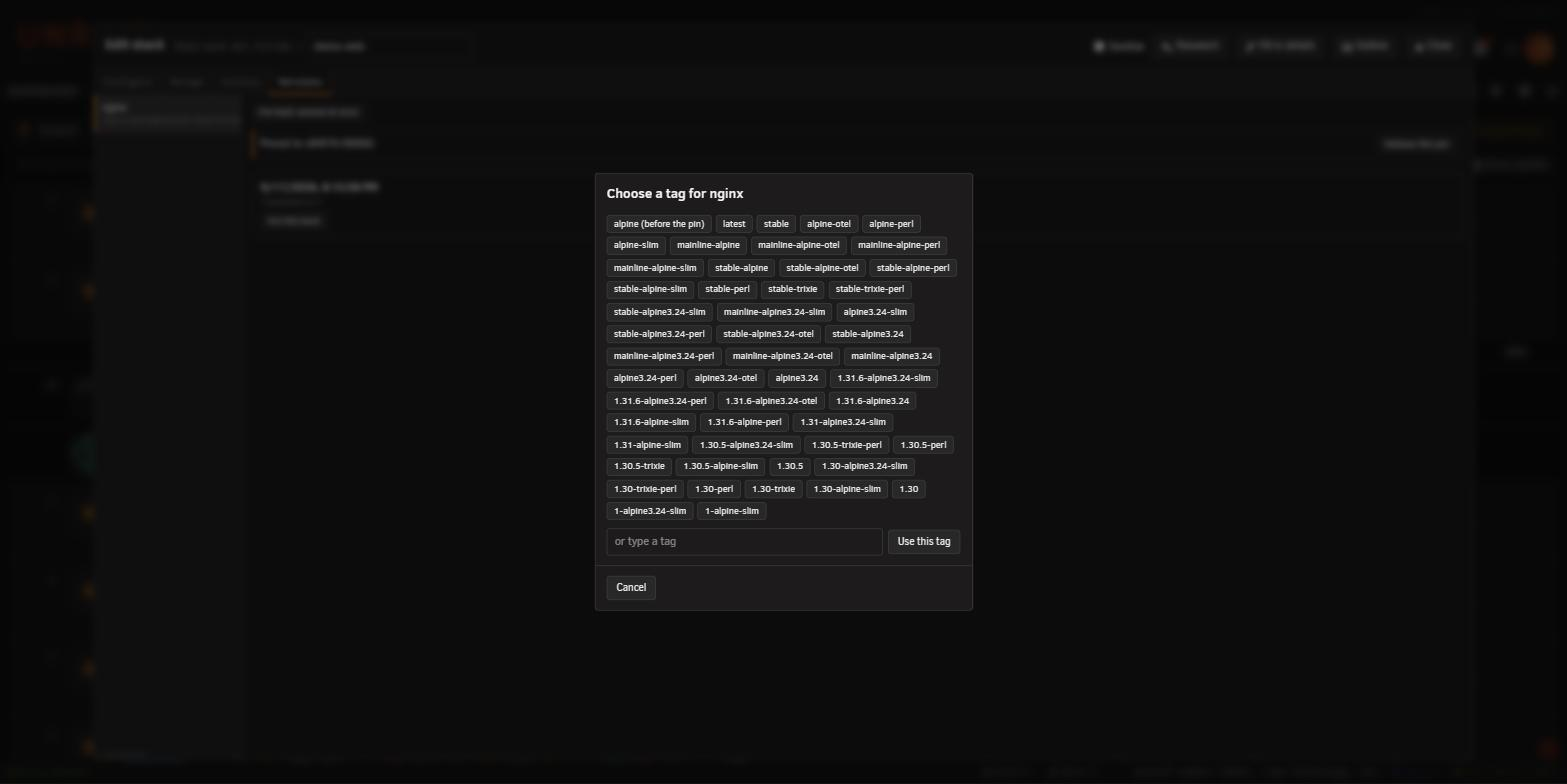
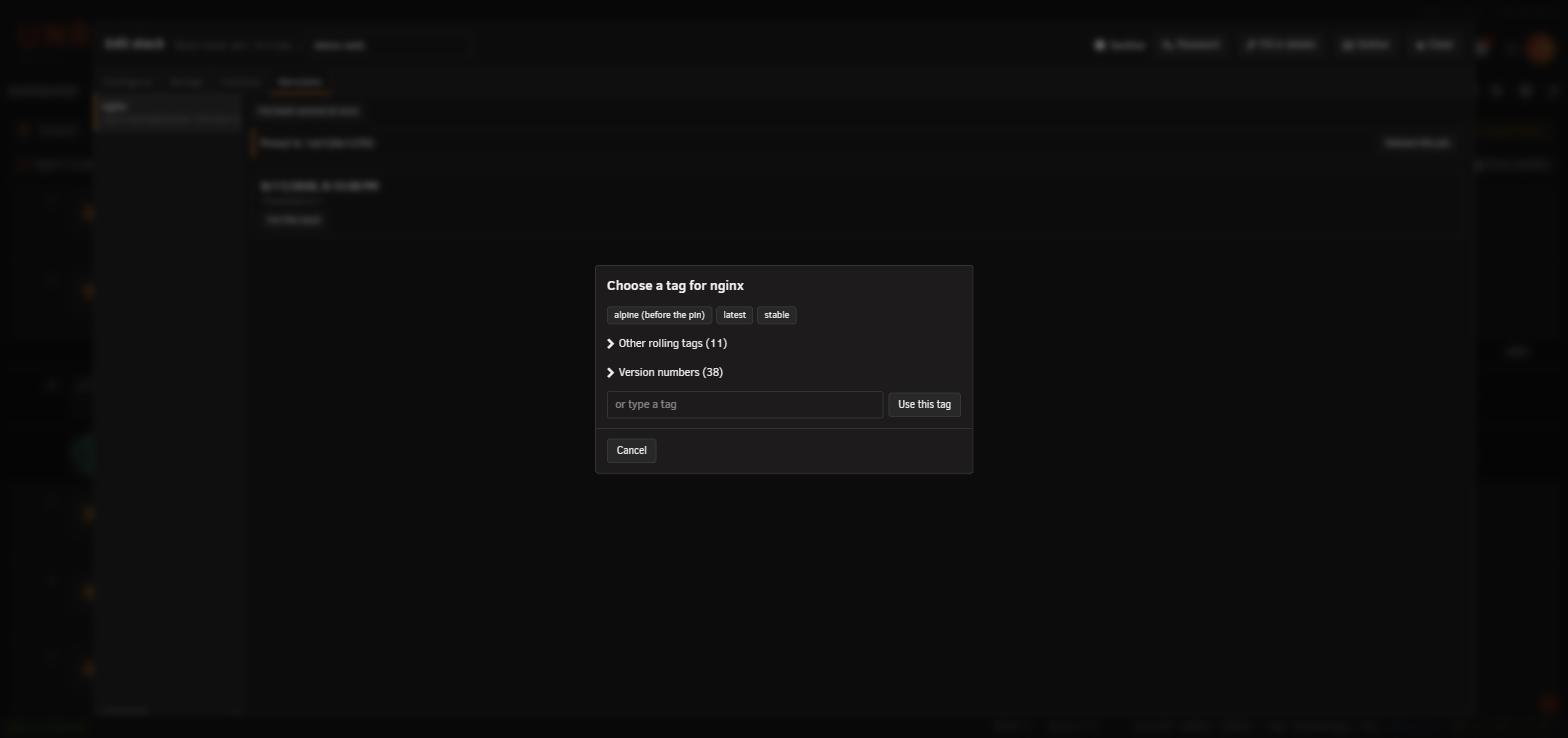
Pinned: the release picker groups tags, and a phone's stack menu survives a scroll
The tag list that opens on "Release this pin" now keeps the tag the service
was pinned from and the usual rolling names on top, and folds the other
rolling tags and the version numbers away behind a count. On a phone the
stack menu no longer closes when the page is scrolled to reach its lower
items. Guide page and picture updated to match. Follow-up to PLAN_188.

Claude-Session: https://claude.ai/code/session_018i9Wd14NfQngv9Gg3UcQBG

diff --git a/src/staxx/usr/local/emhttp/plugins/staxx/javascript/stacks.js b/src/staxx/usr/local/emhttp/plugins/staxx/javascript/stacks.js
@@ -24076,6 +24076,36 @@
   var confirmBusy    = false;
   var confirmResolve = null;
 
+  // PLAN_188 part D follow-up, 2026-09-26 — a question token. Bumped every
+  // time askConfirm()/askText()/askTagPick()/showInfo() takes the shared
+  // dialog over for a NEW question (claimConfirm(), just below). The bug
+  // this guards against: closeConfirm() calls the dialog's own close(),
+  // which does not fire its 'close' event inline — the event is a QUEUED
+  // task, so a slow enough gap between that call and the task actually
+  // running can let a LATER question open in between. When that stale
+  // event finally arrives, the generic listener used to call
+  // settleConfirm(false) unconditionally, resolving whatever question now
+  // owns confirmResolve — the LATER one — with a Cancel nobody actually
+  // gave it (measured: pinning a service, then releasing its pin from the
+  // Versions tab a few seconds later, closed the release picker within
+  // about a second with the previous question's own Go label still on the
+  // button). confirmClosingEpoch records which epoch a closeConfirm() call
+  // was made under; the listener drops the event as a stale echo when a
+  // newer question has since claimed the dialog, rather than settling it.
+  var confirmEpoch        = 0;
+  var confirmClosingEpoch = -1;
+
+  // Called by askConfirm()/askText()/askTagPick()/showInfo() at the top of
+  // each call, before anything else touches the dialog — every one of
+  // those bumps the epoch even when it is only restyling an already-open
+  // dialog for a follow-up question (the row menu's own release: tag
+  // picker, then a confirm repeating the chosen tag), since that follow-up
+  // is exactly the kind of newer question a stale close must not reach
+  // past.
+  function claimConfirm() {
+    return ++confirmEpoch;
+  }
+
   function confirmSetBusy(busy) {
     confirmBusy = busy;
     confirmCancel.disabled = busy;
@@ -24084,6 +24114,7 @@
   }
 
   function closeConfirm() {
+    confirmClosingEpoch = confirmEpoch;
     if (confirmModal.open) confirmModal.close();
   }
 
@@ -24114,6 +24145,7 @@
   // "unsaved changes" question (PLAN_44 C2) is the only caller that passes
   // it, so every existing two-answer question is untouched by this.
   function askConfirm(opts) {
+    claimConfirm();
     confirmSetBusy(false);
     confirmMsg.textContent = '';
     confirmTitle.textContent = opts.title;
@@ -24155,6 +24187,7 @@
   function showInfo(title, bodyHtml, opts) {
     opts = opts || {};
     if (!confirmModal) { noDialogFallback(title); return Promise.resolve(); }
+    claimConfirm();
     confirmSetBusy(false);
     confirmMsg.textContent = '';
     confirmTitle.textContent = title;
@@ -24177,6 +24210,7 @@
   // awaiting this instead.
   function askText(title, label, value) {
     if (!confirmModal) return Promise.resolve(window.prompt(label, value || ''));
+    claimConfirm();
     confirmSetBusy(false);
     confirmMsg.textContent = '';
     confirmTitle.textContent = title;
@@ -24235,13 +24269,19 @@
 
   // `beforePinTag` (PLAN_188 part D follow-up) is the bare tag the service
   // was pinned from — tagFromPinnedRef() reading its own "was <ref>" note —
-  // or '' when there is none to offer. Order: that tag first of all,
-  // marked; then the plan's own moving-tag list, in its own order, for
-  // whichever of them the image actually has; then every OTHER tag with no
-  // digit in it at all (nginx's own "alpine", "mainline", "perl" and so
-  // on — a real image's rolling tags are rarely limited to the plan's
-  // named nine), alphabetically; then every tag that does carry a version
-  // number, newest first.
+  // or '' when there is none to offer.
+  //
+  // PLAN_188 part F (2026-09-26, Adrian from the phone: the flat list "is a
+  // big list of noise"). A top row always shows that before-pin tag, then
+  // whichever of the plan's named nine the image actually has, in their own
+  // order. Everything else sits behind two folded headings so the dialog
+  // opens short: every OTHER tag with no digit in it at all (nginx's own
+  // "alpine", "mainline", "perl" and so on — a real image's rolling tags are
+  // rarely limited to the plan's named nine), alphabetically; then every tag
+  // that does carry a version number, newest first, as before. A group with
+  // nothing in it is not rendered, and both start folded — unless the top
+  // row itself is empty, in which case the first group that has anything
+  // opens already, so the dialog is never one tap away from looking blank.
   function askTagPick(repo, tags, beforePinTag) {
     var MOVING = ['latest', 'main', 'master', 'develop', 'dev', 'stable', 'beta', 'nightly', 'edge'];
     var movingIndex = {};
@@ -24257,31 +24297,66 @@
     otherMoving.sort();
     versions.sort(compareTagsNewestFirst);
 
-    var ordered = planListed.concat(otherMoving, versions);
+    var top = planListed.slice();
     if (beforePinTag) {
-      ordered = [beforePinTag].concat(ordered.filter(function (t) { return t !== beforePinTag; }));
+      top = [beforePinTag].concat(top.filter(function (t) { return t !== beforePinTag; }));
     }
 
-    var listHtml = ordered.length
-      ? '<ul class="staxx-tagpick-list">' + ordered.map(function (t, i) {
-          var label = (beforePinTag && i === 0) ? t + ' (before the pin)' : t;
-          return '<li><button type="button" class="staxx-btn staxx-btn--small" data-tag-pick="' +
-                 esc(repo + ':' + t) + '">' + esc(label) + '</button></li>';
-        }).join('') + '</ul>'
+    function tagButtonsHtml(list, markFirstAsBeforePin) {
+      return '<ul class="staxx-tagpick-list">' + list.map(function (t, i) {
+        var label = (markFirstAsBeforePin && i === 0) ? t + ' (before the pin)' : t;
+        return '<li><button type="button" class="staxx-btn staxx-btn--small" data-tag-pick="' +
+               esc(repo + ':' + t) + '">' + esc(label) + '</button></li>';
+      }).join('') + '</ul>';
+    }
+
+    var topHtml = top.length ? tagButtonsHtml(top, !!beforePinTag) : '';
+
+    var groupDefs = [
+      { key: 'other', heading: 'Other rolling tags', list: otherMoving },
+      { key: 'versions', heading: 'Version numbers', list: versions }
+    ].filter(function (g) { return g.list.length; });
+
+    // Same fold shape the import list's own groups use (.staxx-chevron,
+    // fa-chevron-right/down, aria-expanded/aria-controls) — a heading button
+    // beside a list it shows or hides, nothing purpose-built.
+    var firstOpenIdx = topHtml ? -1 : 0;
+    var groupsHtml = groupDefs.map(function (g, i) {
+      var open = i === firstOpenIdx;
+      var listId = 'staxx-tagpick-group-' + g.key;
+      return '<div class="staxx-tagpick-group">' +
+        '<button type="button" class="staxx-tagpick-groupbtn" data-tag-pick-fold ' +
+          'aria-expanded="' + (open ? 'true' : 'false') + '" aria-controls="' + listId + '">' +
+          '<i class="fa fa-chevron-' + (open ? 'down' : 'right') + '"></i> ' +
+          esc(g.heading) + ' (' + g.list.length + ')' +
+        '</button>' +
+        '<div id="' + esc(listId) + '"' + (open ? '' : ' hidden') + '>' + tagButtonsHtml(g.list, false) + '</div>' +
+      '</div>';
+    }).join('');
+
+    var listHtml = (topHtml || groupsHtml)
+      ? topHtml + groupsHtml
       : '<p class="staxx-form-empty">StaXX could not read a list of tags for this image.</p>';
     var typeHtml = '<div class="staxx-tagpick-type">' +
       '<input type="text" class="staxx-input" data-tag-pick-box placeholder="or type a tag" ' + NOFILL + '>' +
       '<button type="button" class="staxx-btn" data-tag-pick-go>Use this tag</button>' +
       '</div>';
 
+    claimConfirm();
     confirmSetBusy(false);
     confirmMsg.textContent = '';
     confirmTitle.textContent = 'Choose a tag for ' + repo;
     confirmBody.innerHTML = listHtml + typeHtml;
     // Neither of this dialog's own buttons answers the question here — a
     // tag button or "Use this tag" does, through the delegated click
-    // handler below — so Go is hidden rather than repurposed.
+    // handler below — so Go is hidden rather than repurposed. Its label is
+    // cleared too, not only hidden: a stale close landing here from a much
+    // earlier question (see confirmEpoch's own comment) used to reveal the
+    // PREVIOUS question's own Go label the instant this cleanup ran, since
+    // nothing had ever overwritten it — belt and braces alongside the
+    // epoch guard itself, not a replacement for it.
     confirmGo.hidden = true;
+    confirmGo.textContent = '';
     confirmCancel.hidden = false;
     confirmCancel.textContent = confirmCancelDefault;
     if (confirmBadicon) confirmBadicon.hidden = true;
@@ -24290,6 +24365,16 @@
     confirmCancel.focus({ preventScroll: true });
 
     function onBodyClick(event) {
+      var fold = event.target.closest('[data-tag-pick-fold]');
+      if (fold) {
+        var willOpen = fold.getAttribute('aria-expanded') !== 'true';
+        fold.setAttribute('aria-expanded', willOpen ? 'true' : 'false');
+        var icon = fold.querySelector('i');
+        if (icon) icon.className = 'fa fa-chevron-' + (willOpen ? 'down' : 'right');
+        var listEl = document.getElementById(fold.getAttribute('aria-controls'));
+        if (listEl) listEl.hidden = !willOpen;
+        return;
+      }
       var pick = event.target.closest('[data-tag-pick]');
       if (pick) { settleConfirm(pick.dataset.tagPick); return; }
       var go = event.target.closest('[data-tag-pick-go]');
@@ -24336,7 +24421,16 @@
     });
 
     confirmModal.addEventListener('close', function () {
-      settleConfirm(false);
+      // A close whose own epoch no longer matches the current one is a
+      // stale echo of an earlier closeConfirm() call (see confirmEpoch's
+      // own comment above) — a newer question has since taken over the
+      // dialog, and this event is not a real dismissal of THAT one, so
+      // nothing here is settled. `-1` (never armed by closeConfirm() at
+      // all — Escape's own default action, or a backdrop click reaching
+      // native close some other way) always settles normally.
+      var stale = confirmClosingEpoch !== -1 && confirmClosingEpoch !== confirmEpoch;
+      confirmClosingEpoch = -1;
+      if (!stale) settleConfirm(false);
     });
 
     // A request in flight must finish before Escape can close the dialog —
@@ -33553,7 +33647,16 @@
    * menu's heading names the row it is acting on, so it still cannot act on
    * the wrong thing — and closing every menu on every scroll to tidy up that
    * one case is the trade that was just undone. */
-  window.addEventListener('resize', closeMenu);
+  // On a phone, scrolling shows/hides the browser's address bar, which fires 'resize' with only
+  // the height changing — that was closing the row menu the moment someone scrolled to reach its
+  // lower items. Only react when the width has actually changed (a real resize or rotation).
+  var staxxMenuResizeWidth = window.innerWidth;
+  window.addEventListener('resize', function() {
+    if (window.innerWidth !== staxxMenuResizeWidth) {
+      staxxMenuResizeWidth = window.innerWidth;
+      closeMenu();
+    }
+  });
 
   /* -------------------------------------------------------- keyboard nav -- */
 

diff --git a/src/staxx/usr/local/emhttp/plugins/staxx/sheets/staxx.css b/src/staxx/usr/local/emhttp/plugins/staxx/sheets/staxx.css
@@ -10705,6 +10705,32 @@ div.title.staxx-has-titlebar {
   gap: 0.5rem;
 }
 
+/* PLAN_188 part F — the two folded groups (Other rolling tags, Version
+   numbers) below the always-visible top row. The heading is a plain text
+   button, not .staxx-chevron's fixed square, since it carries the group's
+   name and count rather than sitting beside one. */
+.staxx-tagpick-group {
+  margin-bottom: 0.8rem;
+}
+
+.staxx-tagpick-groupbtn {
+  display: flex;
+  align-items: center;
+  gap: 0.5rem;
+  width: 100%;
+  padding: 0.4rem 0;
+  border: 0;
+  background: transparent;
+  color: var(--sm-muted);
+  font: inherit;
+  text-align: left;
+  cursor: pointer;
+}
+
+.staxx-tagpick-groupbtn:hover {
+  color: var(--sm-accent);
+}
+
 .staxx-tagpick-type {
   display: flex;
   gap: 0.6rem;

diff --git a/CHANGELOG.md b/CHANGELOG.md
@@ -6,8 +6,9 @@ What changed in StaXX, newest first.
 
 ## Unreleased
 
+- On a phone, a stack's menu no longer closes when you scroll the page to reach its lower items.
 - The container file manager has its own switch in Settings, Container files, beside Container shells in a box now called Container access. Until you change it, it follows your shell setting, so if you had shells switched off the file manager stays off too. On the Manage tab, a tool that is switched off is no longer shown: the other one takes its space, and with both off the log fills the whole tab.
-- A service can now be pinned to the exact build it is running. Pinned is the first of the update choices on a container's menu and in the editor's Updates box. StaXX writes that build's fingerprint on the image line, in whichever file sets the image, with the old value kept in a comment beside it, and a pinned service is never checked for updates. To release a pin, pick a tag from the list that opens: from the menu the new tag is downloaded and the container recreated straight away; from the Versions tab it goes into the image field for you to save. Bulk updates leave pinned services alone. Nothing already written reads differently: a pin is the same shape a roll-back has always written.
+- A service can now be pinned to the exact build it is running. Pinned is the first of the update choices on a container's menu and in the editor's Updates box. StaXX writes that build's fingerprint on the image line, in whichever file sets the image, with the old value kept in a comment beside it, and a pinned service is never checked for updates. To release a pin, pick a tag from the list that opens (the usual choices on top, with other rolling tags and version numbers folded away below): from the menu the new tag is downloaded and the container recreated straight away; from the Versions tab it goes into the image field for you to save. Bulk updates leave pinned services alone. Nothing already written reads differently: a pin is the same shape a roll-back has always written.
 - Each service's icon is kept in its stack's `.staxx` folder, right beside the compose file — one picture per service, and a stack with several services shows all of their icons tiled together. Existing stacks have their icons put there automatically the first time StaXX notices, and the change is saved into each stack's own history like any other edit.
 - Checking your backup (from the Storage tab, or the self-test's backup line) now asks about your whole StaXX folder at once, settings included, instead of just the stacks and archives folders inside it. If your backup plugin's list already names only those two folders — what the check used to ask for — StaXX now shows a notice on the stack list telling you to add the whole folder instead, so your settings are covered too.
 - The settings panel is shorter and easier to scan: the image settings on the Storage tab share one Unused image management box laid out in two columns, Copies on the flash drive shows its two settings side by side, every setting's control now comes before its explanation, and the Self-test tab scrolls as one page instead of two boxes that each scroll on their own.

diff --git a/docs/guide/editor-versions.md b/docs/guide/editor-versions.md
@@ -56,11 +56,13 @@ choice in [choosing how a container updates](update-policy.md), or typed into th
 A pin is written into whichever file sets that service's image (the main file or its override), and
 the value it replaced is kept in a comment on the same line, for example `# was nginx:1.25.3`.
 
-Press **Release this pin** and StaXX opens a window listing the image's tags. Moving tags such as
-**latest** come first, then version numbers, newest first. Where no tags can be read, a box lets you
-type one instead.
+Press **Release this pin** and StaXX opens a window listing the image's tags. The top row always
+shows the tag it was pinned from, marked **(before the pin)**, together with any of **latest**,
+**main**, **master**, **develop**, **dev**, **stable**, **beta**, **nightly** or **edge** the image
+has. Below that, **Other rolling tags** and **Version numbers** each fold shut behind a count; tap
+either heading to open it. Where no tags can be read, a box lets you type one instead.
 
-![The Choose a tag for nginx window open over the editor: alpine (before the pin) first, then latest, stable and the other named tags, then version numbers from newest down, with a box to type a tag, Use this tag, and Cancel](../images/guide/editor-versions-tag-picker.png)
+![The Choose a tag for nginx window open over the editor: a top row with alpine (before the pin), then latest and stable; below it the folded headings Other rolling tags (11) and Version numbers (38); a box to type a tag, Use this tag, and Cancel](../images/guide/editor-versions-tag-picker.png)
 
 Click a tag to put it into that service's image field on the **Configure** tab, and StaXX switches
 you there. Press **Save** to keep it. Where an override file sets the image, the change is written
